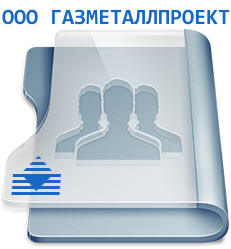
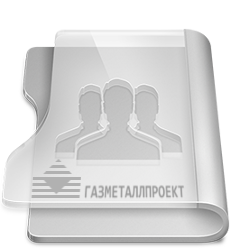
Новое решение картинок сделал заглушку на группы

diff --git a/web/domains.js b/web/domains.js
@@ -70,15 +70,13 @@ $(function(){
 			$(':text[name="domain_name"], :text[name="dom[]"]').each(function(){;
 
 				var domain = this;
+				// фильтрую набор по известному содержимому
+				if ( $('.key').contents().filter( function(){ return $(this).text()==$(domain).val()}).length ) {
+						alert('Домен "'+ $(domain).val() +'" уже существует');
+						$(domain).val('');
+						return false;
+				}
 
-				$('.key:contains("' + $(domain).val() + '")').each( function(){
-
-						if( $(this).text() == $(domain).val() ) {
-								alert('Домен "'+ $(domain).val() +'" уже существует');
-								$(domain).val('');
-								return false;
-						}
-				});
 			});
 
 			// проверка на пустые поля

diff --git a/web/domains.css b/web/domains.css
@@ -1,7 +1,9 @@
 #ed {
-	background-image: url('/domains-a.png');
+	background-image: url('/domains.png');
 }
-
+#usrs {
+	margin: 5px 0 0 0;
+}
 .aliasesplace {
 	float: none !important;
 }

diff --git a/web/users.css b/web/users.css
@@ -1,5 +1,5 @@
 #ed {
-	background-image: url('/users-a.png');
+	background-image: url('/users.png');
 }
 .login {
 	width: 100px !important;

diff --git a/web/aliases.css b/web/aliases.css
@@ -1,5 +1,5 @@
 #ed {
-	background-image: url('/mail-a.png');
+	background-image: url('/mail.png');
 }
 h4 input {
 	width: 150px;

diff --git a/web/groups.css b/web/groups.css
@@ -1,0 +1,6 @@
+#ed {
+	background-image: url('/groups.png');
+}
+#usrs {
+	margin: 5px 0 0 0;
+}

diff --git a/classes/App/Controller/Groups.php b/classes/App/Controller/Groups.php
@@ -1,0 +1,213 @@
+<?php
+/*
+
+ */
+namespace App\Controller;
+
+class Groups extends \PHPixie\Controller {
+
+   private $logmsg;
+   private $domain_id;
+
+   private function sanitize(&$value, $method) {
+
+		$value =  trim($value) ;
+
+		switch ( $method ) {
+			case 'transport':
+				if( !preg_match ('/\w+:\[(\d+\.)+\d+\]/', $value) ) {
+					$this->logmsg .= "<span class='error'>Wrong entry for net in field $value</span>";
+					return true;
+				}
+				break;
+			case 'is_domain':
+				if ( ! preg_match('/(\w+\.)+(\w+)/',$value) ) {
+					$this->logmsg .= "<span class='error'>Wrong entry for mail in field $value</span>";
+					return true;
+				}
+				break;
+			default:
+				return false;
+		}
+	}
+
+    public function action_view() {
+
+        $view = $this->pixie->view('main');
+
+		$view->subview 		= 'groups_main';
+
+		$view->script_file	= '<script type="text/javascript" src="/groups.js"></script>';
+		$view->css_file 	= '<link rel="stylesheet" href="/groups.css" type="text/css" />';
+
+
+		//~ $view->domains = $this->pixie->db
+								//~ ->query('select')
+								//~ ->table('domains')
+								//~ ->execute()
+								//~ ->as_array();
+//~
+		$view->groups_block 	= $this->action_single();
+
+        $this->response->body	= $view->render();
+    }
+
+
+	public function action_single() {
+
+		$view 		= $this->pixie->view('groups_view');
+		$view->log 	= isset($this->logmsg) ?  $this->logmsg : '';
+
+
+		if( ! $this->request->get('name') )
+			return;
+
+		if( ! isset($this->domain_id) )
+			$this->domain_id = $this->request->get('name');
+
+		$domain = $this->pixie->db
+								->query('select')->table('domains')
+								->where('domain_id', $this->domain_id)
+								->execute()
+								->current();
+
+		//Если ответ пустой
+		if( ! count($domain) )
+			return "<strong>Домена с ID ".$this->domain_id." не существует.</strong>";
+
+		$view->domain = $domain;
+
+		// Собираем алиасы домена
+		$view->aliases = $this->pixie->db
+									->query('select')->table('domains')
+									->where('delivery_to', $domain->domain_name)
+									->execute();
+
+		// Редактирование
+		if( ! $this->request->get('act') )
+			return $view->render();
+
+		$this->response->body = $view->render();
+	}
+
+	public function action_new() {
+
+		$view 		= $this->pixie->view('domains_new');
+		$view->log 	= isset($this->logmsg) ?  $this->logmsg : '';
+
+		if( ! isset($this->logmsg) )
+
+			$view->log = '<strong>Ввод нового домена.</strong>';
+
+		$this->response->body = $view->render();
+	}
+
+	public function action_add() {
+
+        if ($this->request->method == 'POST') {
+
+			$params = $this->request->post();
+
+			if( ! isset( $params['active'] ) )  $params['active'] = 0;
+
+			// Проверка на правильность заполнения (Новая запись)
+			if( isset($params['domain_name']) )
+				$this->sanitize($params['domain_name'], 'is_domain' );
+
+			// Проверка типа домена
+			if( isset($params['delivery_to']) ) {
+				$this->sanitize( $params['delivery_to'], 'net');
+				$params['domain_type'] = '2';
+			}
+			else {
+				$params['delivery_to'] = 'virtual';
+				$params['domain_type'] = '0';
+			}
+
+			// Если нет ошибок заполнения - проходим в обработку
+			if( ! isset($this->logmsg) ) {
+
+				// Если запись новая
+				if( ! isset($params['domain_id']) ) {
+
+					$this->pixie->db
+									->query('insert')->table('domains')
+									->data(array(
+												'domain_name' 	=> $params['domain_name'],
+												'delivery_to' 	=> $params['delivery_to'],
+												'domain_type' 	=> $params['domain_type'],
+												'domain_notes'	=> $params['domain_notes'],
+												'active'		=> $params['active']
+												))
+									->execute();
+
+					$params['domain_id'] = $this->pixie->db->insert_id();
+
+					$params['dom_alias'] = $params['domain_name'];
+				}
+				// Если редактируем
+				else {
+					$this->pixie->db
+									->query('update')->table('domains')
+									->data(array(
+												'domain_notes'	=> $params['domain_notes'],
+												'active'		=> $params['active'],
+												))
+									->where('domain_id', $params['domain_id'])
+									->execute();
+				}
+
+			}
+
+			// Обработка алиасов
+			foreach ($params['dom'] as $key=>$alias ) {
+
+				if( $params['dom_st'][$key] == 2 ) {
+				// Удаление
+					$this->pixie->db->query('delete')->table('domains')
+									->where('domain_id',$params['dom_id'][$key])
+									->execute();
+				}
+				elseif( $params['dom_id'][$key] == 0 ) {
+				// Новый
+					$this->pixie->db->query('insert')->table('domains')
+									->data(array(
+										'domain_name' => $alias,
+										'delivery_to' => $params['dom_alias'],
+										'domain_type' => '1',
+										'active'	  => $params['dom_st'][$key]
+									))->execute();
+				}
+				else {
+				// Изменение
+					$this->pixie->db->query('update')->table('domains')
+									->data(array(
+										'domain_name' => $alias,
+										'active'	 => $params['dom_st'][$key]
+									))
+									->where('domain_id', $params['dom_id'][$key])
+									->execute();
+				}
+			}
+
+			// Ошибки имели место - возвращаем форму
+			if( isset( $this->logmsg ) ) {
+
+				if ( isset($params['domain_id']) ) {
+
+					$this->domain_id = $params['domain_id'];
+					$this->action_single();
+				}
+				else
+					$this->action_new();
+			}
+			else
+				$this->response->body = $params['domain_id'];
+
+		}
+
+	}
+
+
+}
+?>

diff --git a/assets/views/groups_new.php b/assets/views/groups_new.php
@@ -1,0 +1,28 @@
+<div id='log'><?= $log ?></div>
+<form id='usersform' action='#' method='post'>
+		<div class='fieldentry'>
+			<span class='formlabel'>Aктивен:</span>
+			<input type='checkbox' class='formtext' name='active' value='1' checked>
+	   </div>
+	   <div class='fieldentry'>
+			<span class='formlabel'>Домен:</span>
+			<input class='formtext' type='text' name='domain_name' value=''  />
+	   </div>
+	   <div class='fieldentry'>
+			<span class='formlabel'>Описание:</span>
+			<input  class='formtext' type='text' name='domain_notes' value=''  />
+	   </div>
+	   <div class='fieldentry'>
+			 <span class='formlabel'>Транспорт:</span>
+			 <button id='path' class='web' >4</button>
+		</div>
+
+<br />
+		<h4>Алиасы домена</h4>
+		<table class='atable'>
+			<tr><th  class='txt'>alias</th><th>on/off</th><th><button id='alias' class='else'>+</button></th></tr>
+		</table>
+
+	<div class='submit'><input type='submit' id='submit_domain' value='Изменить'></div>
+</form>
+

diff --git a/assets/views/groups_main.php b/assets/views/groups_main.php
@@ -1,0 +1,23 @@
+	<div class="editmenu">
+		<div id='new'></div>
+	</div>
+<div id='usrs'>
+<!--	<h4>Группы</h4>
+	<div class='aliasesplace'>
+
+		<div>
+			<div class='th'>домен</div>
+			<div class='th'>транспорт</div>
+		</div>
+		<div class='alias_box' id='transport'>
+			<table>
+
+			</table>
+		</div>
+	</div>
+-->
+</div>
+<div id='ed'>
+	<?= $groups_block; ?>
+</div>
+

diff --git a/assets/views/groups_view.php b/assets/views/groups_view.php
@@ -1,0 +1,8 @@
+<div id='log'><?= $log ?></div>
+<form id='usersform' action='#' method='post'>
+
+<!--
+		<div class='submit'><input type='submit' id='submit_domain' value='Изменить'></div>
+-->
+</form>
+
